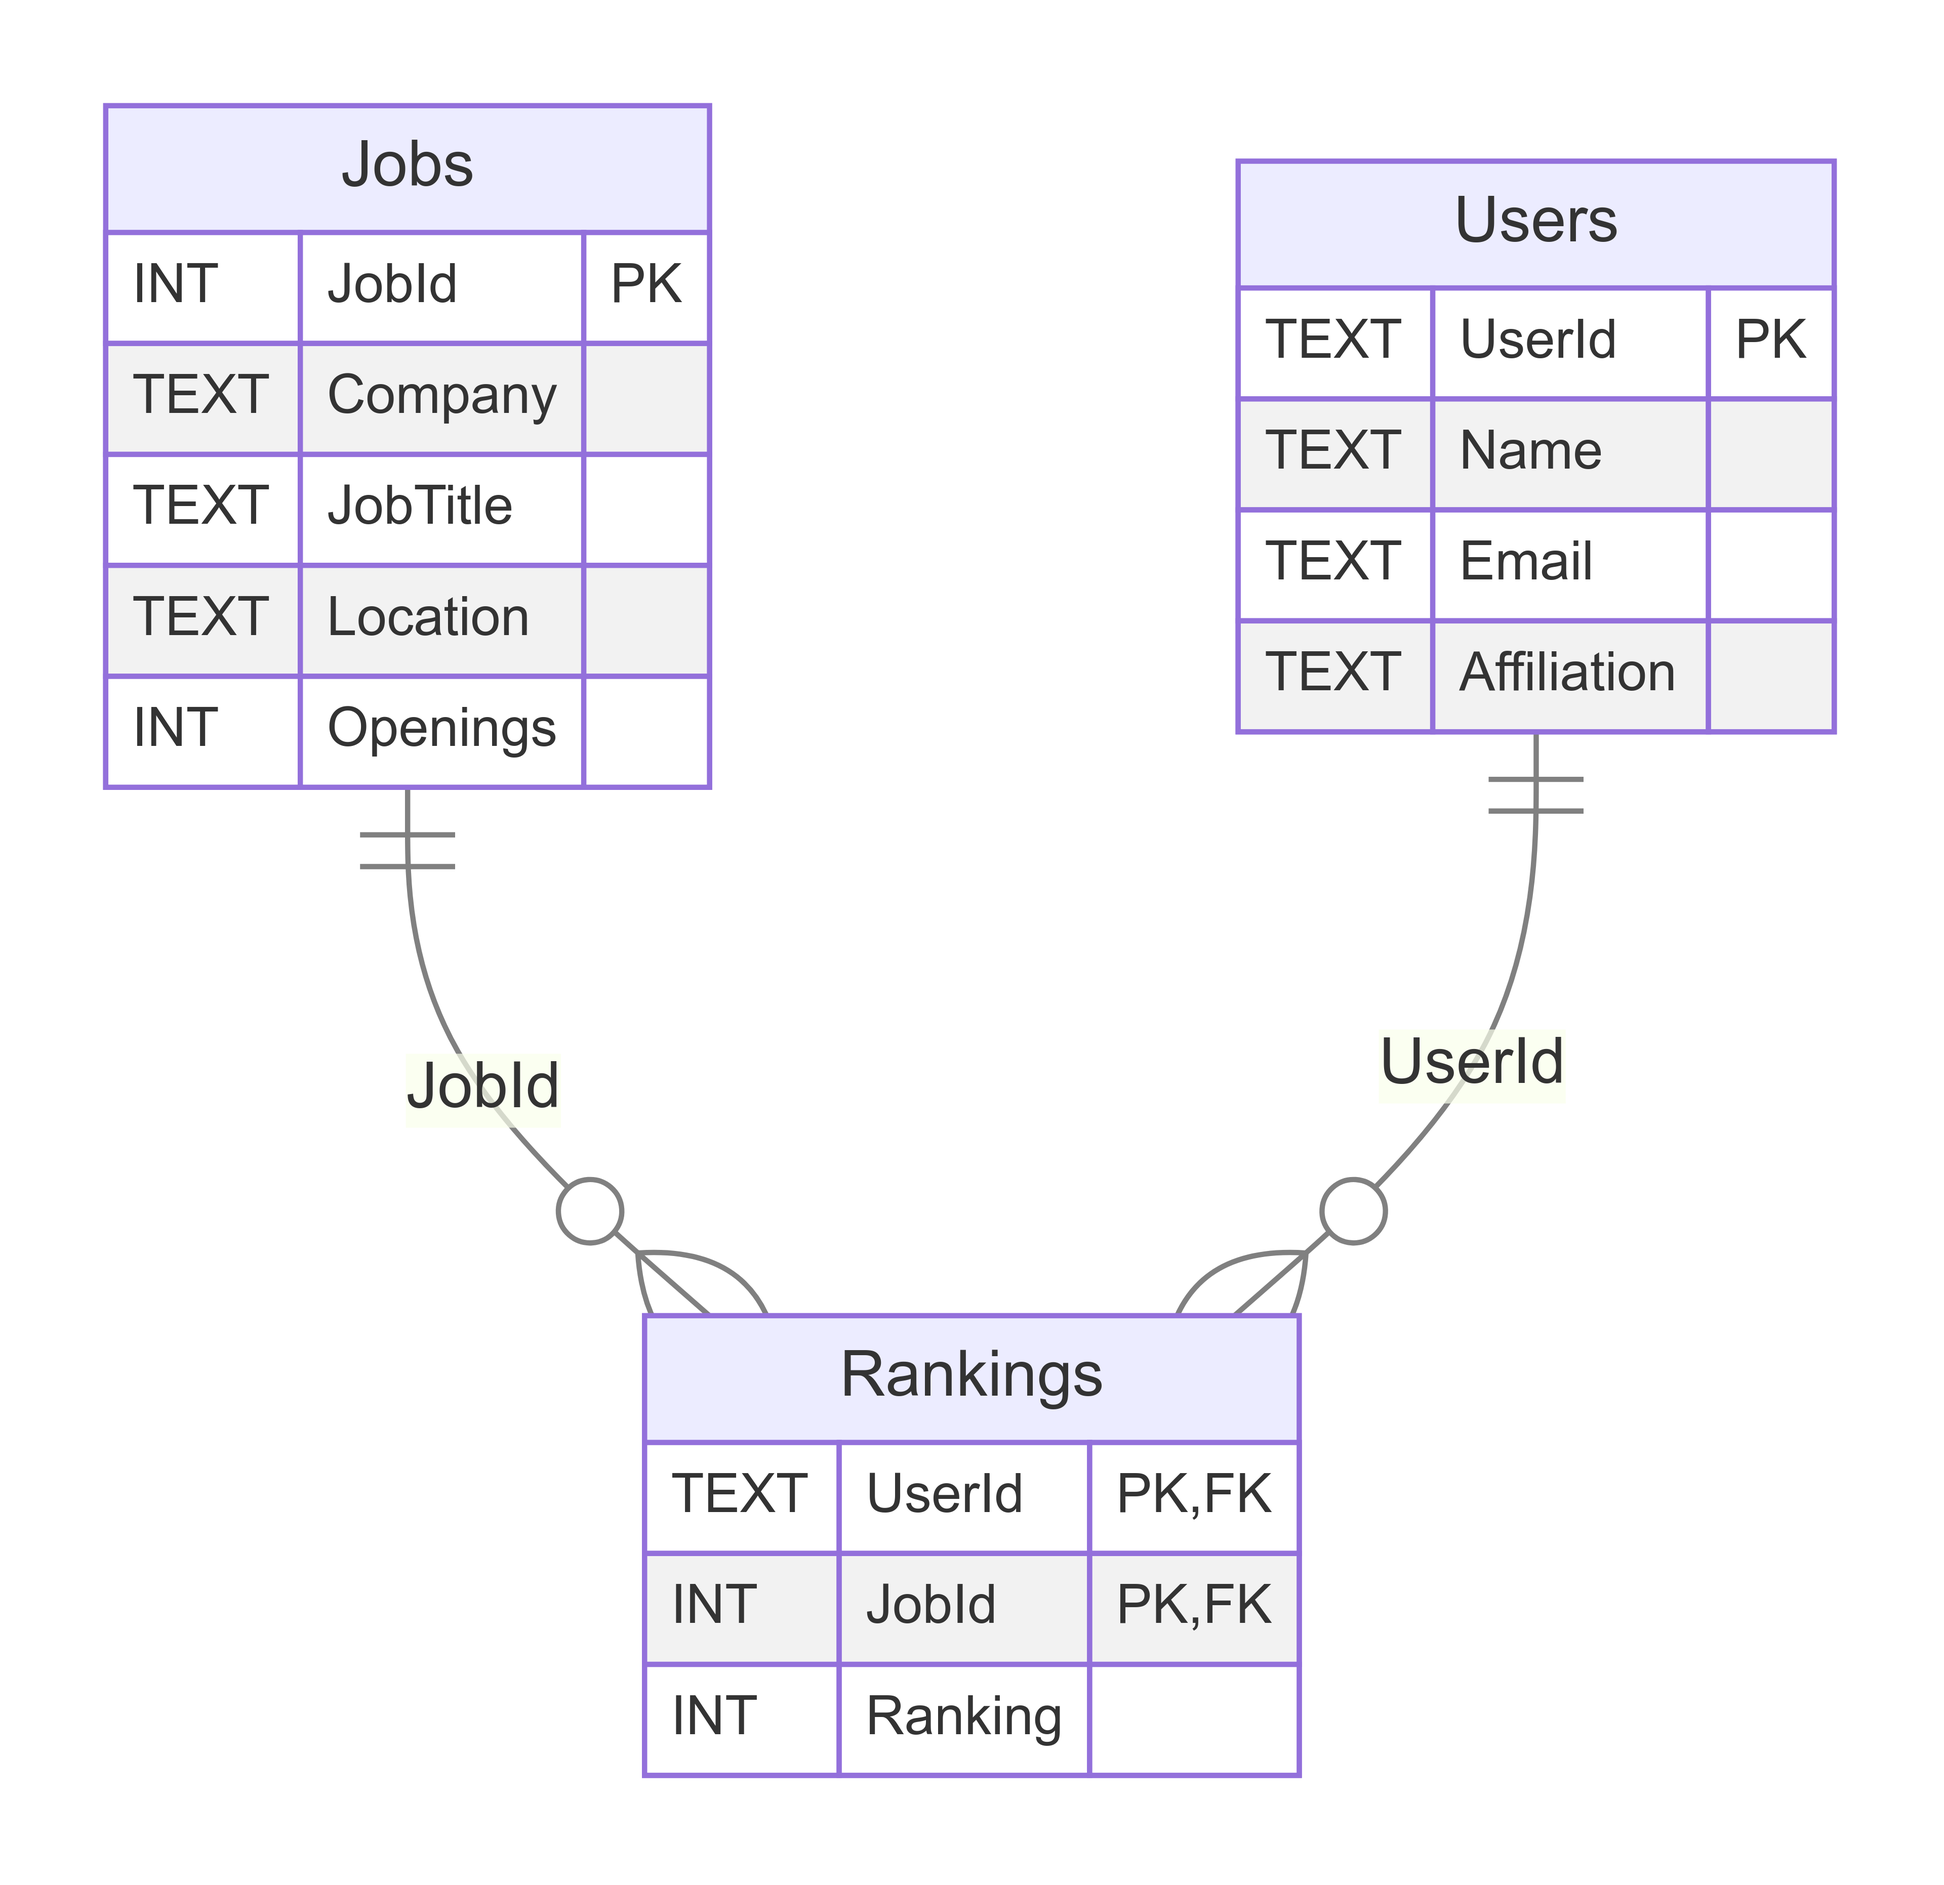
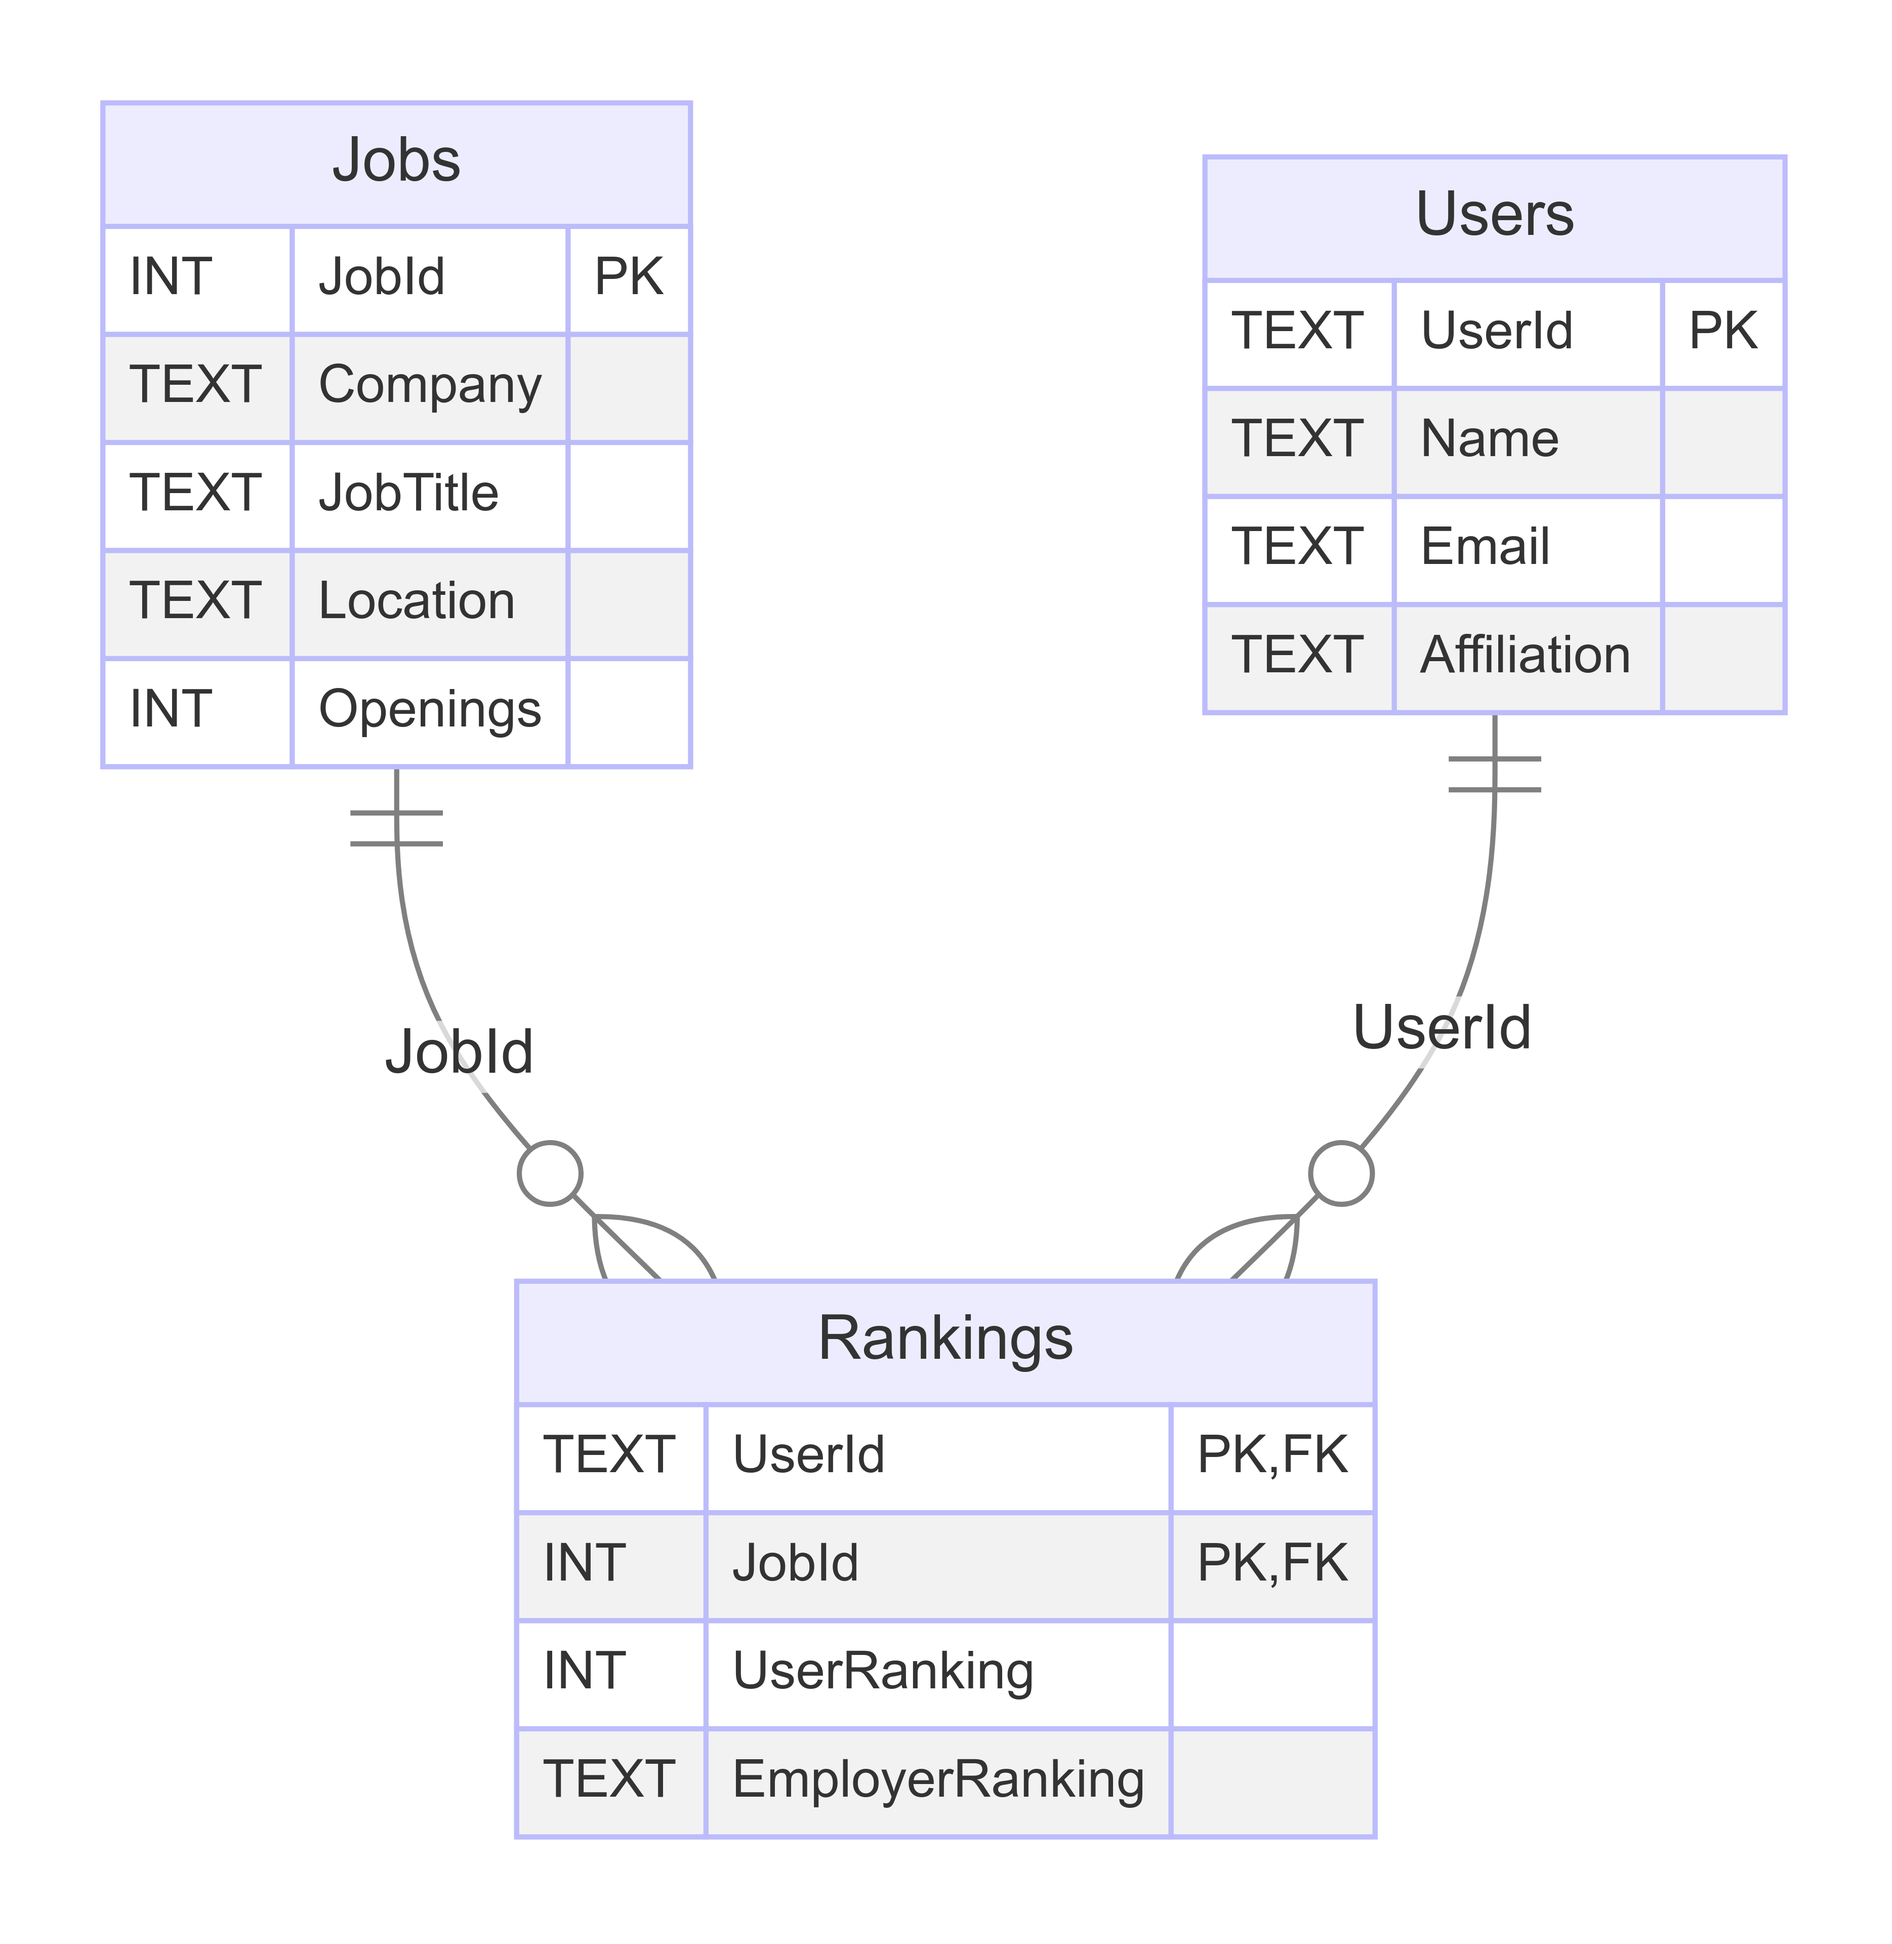
Add EmployerRanking field

diff --git a/README.md b/README.md
@@ -7,10 +7,12 @@
 
 ## Design Choices
 - All string fields are TEXT -> change later to VARCHAR
-- Ranking is an INT following the same convention as is on the WaterlooWorks form
+- User ranking is an INT following the same convention as is on the WaterlooWorks form
     - 0 -> pending
     - 1-10 -> rank
     - 99 -> not interested
+- Employer ranking is currently a text field to support '1' or 'Ranked' or 'Not Ranked' but should be changed later to an int or something.
+- Constraints are in a separate files, but could be moved in with create_tables
 
 ## ER Diagram
 <img src="assets/ER.png" alt="ER Diagram" style="max-width: 500px;">
